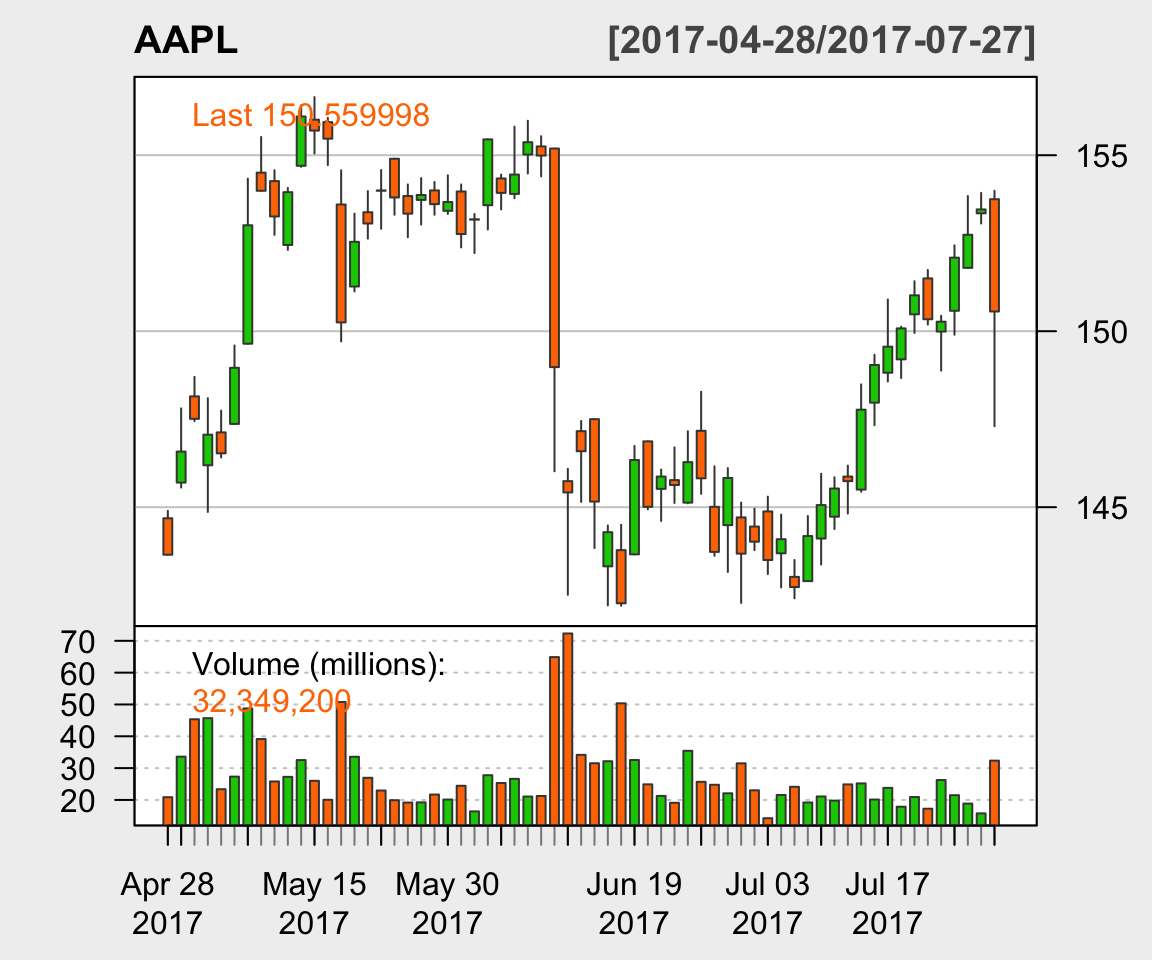
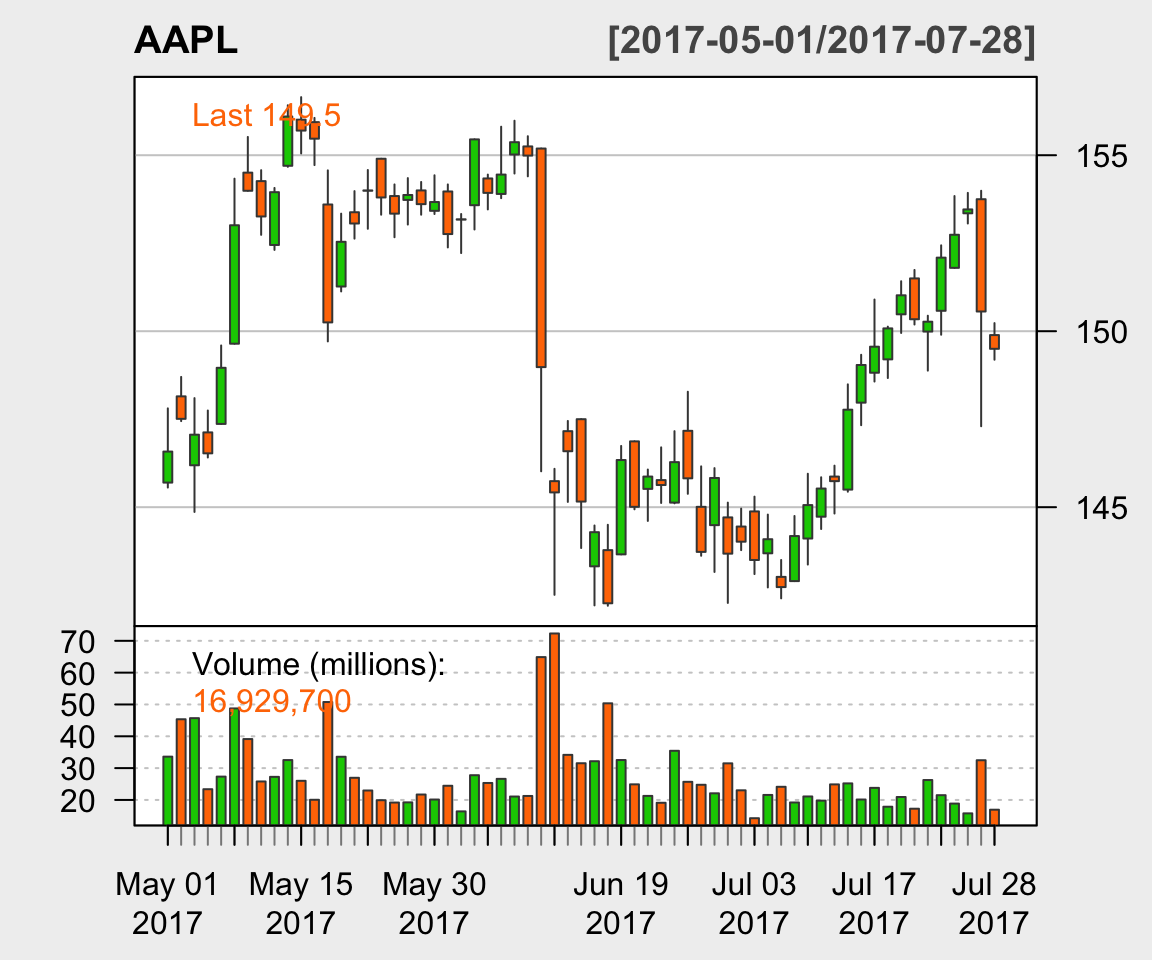
New build

diff --git a/_book/data.html b/_book/data.html
@@ -25,7 +25,7 @@
 <meta name="author" content="Matthew Beckman, Stéphane Guerrier, Justin Lee &amp; Roberto Molinari">
 
 
-<meta name="date" content="2017-07-28">
+<meta name="date" content="2017-07-29">
 
   <meta name="viewport" content="width=device-width, initial-scale=1">
   <meta name="apple-mobile-web-app-capable" content="yes">
@@ -527,10 +527,10 @@ Here we could add some remarks on weird cases, for example <code>grand_slam_win[
 <h3><span class="header-section-number">2.1.8</span> Example: Apple Stock Price</h3>
 <p>Suppose that one is interested in analysing the behavior of Apple’s stoch price over the last three months. The first thing that is need is today’s date which can be obtained as follows</p>
 <div class="sourceCode"><pre class="sourceCode r"><code class="sourceCode r">(<span class="dt">today =</span> <span class="kw">Sys.Date</span>())</code></pre></div>
-<pre><code>## [1] &quot;2017-07-28&quot;</code></pre>
+<pre><code>## [1] &quot;2017-07-29&quot;</code></pre>
 <p>Once this is done, we can obtain the date which is exactly three monmths ago</p>
 <div class="sourceCode"><pre class="sourceCode r"><code class="sourceCode r">(<span class="dt">three_months_ago =</span> <span class="kw">seq</span>(today, <span class="dt">length =</span> <span class="dv">2</span>, <span class="dt">by =</span> <span class="st">&quot;-3 months&quot;</span>)[<span class="dv">2</span>])</code></pre></div>
-<pre><code>## [1] &quot;2017-04-28&quot;</code></pre>
+<pre><code>## [1] &quot;2017-04-29&quot;</code></pre>
 <p>With this information, we can now download Apple’s stock price and represent these stocks through a candlestick chart which summarizes information on daily opening and closing prices as well as minimum and maximum prices.</p>
 <div class="sourceCode"><pre class="sourceCode r"><code class="sourceCode r"><span class="kw">library</span>(quantmod)
 <span class="kw">getSymbols</span>(<span class="st">&quot;AAPL&quot;</span>, <span class="dt">from =</span> three_months_ago, <span class="dt">to =</span> today)</code></pre></div>
@@ -545,9 +545,9 @@ Here we could add some remarks on weird cases, for example <code>grand_slam_win[
 <div class="sourceCode"><pre class="sourceCode r"><code class="sourceCode r">AAPL_returns =<span class="st"> </span><span class="kw">as.numeric</span>(<span class="kw">na.omit</span>(<span class="kw">ClCl</span>(AAPL)))</code></pre></div>
 <p>where <code>na.omit</code> is used to remove missing values in the stock prices vector since, if we have <span class="math inline">\(n+1\)</span> stock prices, we will only have <span class="math inline">\(n\)</span> returns and <code>as.numeric</code> is used to transform the computed returns into a numeric vector. We can now compute the mean and median of the returns over the considered period</p>
 <div class="sourceCode"><pre class="sourceCode r"><code class="sourceCode r"><span class="kw">mean</span>(AAPL_returns)</code></pre></div>
-<pre><code>## [1] 0.0008296052</code></pre>
+<pre><code>## [1] 0.0003870694</code></pre>
 <div class="sourceCode"><pre class="sourceCode r"><code class="sourceCode r"><span class="kw">median</span>(AAPL_returns)</code></pre></div>
-<pre><code>## [1] 0.002994722</code></pre>
+<pre><code>## [1] 0.002557922</code></pre>
 <p>However, a statistic that is of particular interest to financial operators is the Excess Kurtosis which, for a random variable that we denote as <span class="math inline">\(X\)</span>, can be defined as</p>
 <span class="math display">\[\begin{equation}
   \text{Kurt} = \frac{{E}\left[\left(X - E[X]\right)^4\right]}{\left({E}\left[\left(X - E[X]\right)^2\right]\right)^2} - 3
@@ -562,7 +562,7 @@ Here we could add some remarks on weird cases, for example <code>grand_slam_win[
 \end{equation}\]</span>
 <div class="sourceCode"><pre class="sourceCode r"><code class="sourceCode r">mu =<span class="st"> </span><span class="kw">mean</span>(AAPL_returns)
 (<span class="dt">k =</span> <span class="kw">mean</span>((AAPL_returns -<span class="st"> </span>mu)^<span class="dv">4</span>)/(<span class="kw">mean</span>((AAPL_returns -<span class="st"> </span>mu)^<span class="dv">2</span>))^<span class="dv">2</span> -<span class="st"> </span><span class="dv">3</span>)</code></pre></div>
-<pre><code>## [1] 1.854458</code></pre>
+<pre><code>## [1] 2.004566</code></pre>
 <p>which is quite high tends to indicate the returns have a heavier tails than the normal distribution.</p>
 </div>
 </div>
@@ -828,24 +828,24 @@ y =<span class="st"> </span><span class="kw">rnorm</span>(n, <span class="dv">3<
 <span class="co"># Sample mean</span>
 one =<span class="st"> </span><span class="kw">rep</span>(<span class="dv">1</span>, n)
 (<span class="dt">x_bar =</span> <span class="dv">1</span>/n*<span class="kw">sum</span>(x))</code></pre></div>
-<pre><code>## [1] -0.3156716</code></pre>
+<pre><code>## [1] -0.3777272</code></pre>
 <div class="sourceCode"><pre class="sourceCode r"><code class="sourceCode r">(<span class="dt">x_bar_mat =</span> <span class="dv">1</span>/n*<span class="kw">t</span>(x)%*%one)</code></pre></div>
 <pre><code>##            [,1]
-## [1,] -0.3156716</code></pre>
+## [1,] -0.3777272</code></pre>
 <div class="sourceCode"><pre class="sourceCode r"><code class="sourceCode r"><span class="co"># Sample variance</span>
 H =<span class="st"> </span><span class="kw">diag</span>(<span class="kw">rep</span>(<span class="dv">1</span>, n)) -<span class="st"> </span><span class="dv">1</span>/n *<span class="st"> </span>one %*%<span class="st"> </span><span class="kw">t</span>(one)
 (<span class="dt">s_x =</span> <span class="dv">1</span>/n *<span class="st"> </span><span class="kw">sum</span>((x -<span class="st"> </span>x_bar)^<span class="dv">2</span>))</code></pre></div>
-<pre><code>## [1] 4.277322</code></pre>
+<pre><code>## [1] 4.661235</code></pre>
 <div class="sourceCode"><pre class="sourceCode r"><code class="sourceCode r">(<span class="dt">s_x_mat =</span> <span class="dv">1</span>/n*<span class="kw">t</span>(x) %*%<span class="st"> </span>H %*%<span class="st"> </span>x)</code></pre></div>
 <pre><code>##          [,1]
-## [1,] 4.277322</code></pre>
+## [1,] 4.661235</code></pre>
 <div class="sourceCode"><pre class="sourceCode r"><code class="sourceCode r"><span class="co"># Sample covariance</span>
 y_bar =<span class="st"> </span><span class="dv">1</span>/n*<span class="kw">sum</span>(y)
 (<span class="dt">s_xy =</span> <span class="dv">1</span>/n*<span class="kw">sum</span>((x -<span class="st"> </span>x_bar)*(y -<span class="st"> </span>y_bar)))</code></pre></div>
-<pre><code>## [1] -0.01609829</code></pre>
+<pre><code>## [1] -0.1118769</code></pre>
 <div class="sourceCode"><pre class="sourceCode r"><code class="sourceCode r">(<span class="dt">s_xy_mat =</span> <span class="dv">1</span>/n*<span class="kw">t</span>(x) %*%<span class="st"> </span>H %*%<span class="st"> </span>y)</code></pre></div>
-<pre><code>##             [,1]
-## [1,] -0.01609829</code></pre>
+<pre><code>##            [,1]
+## [1,] -0.1118769</code></pre>
 </div>
 <div id="example-least-squares" class="section level3">
 <h3><span class="header-section-number">2.2.4</span> Example: Least-squares</h3>

diff --git a/_book/index.html b/_book/index.html
@@ -25,7 +25,7 @@
 <meta name="author" content="Matthew Beckman, Stéphane Guerrier, Justin Lee &amp; Roberto Molinari">
 
 
-<meta name="date" content="2017-07-28">
+<meta name="date" content="2017-07-29">
 
   <meta name="viewport" content="width=device-width, initial-scale=1">
   <meta name="apple-mobile-web-app-capable" content="yes">
@@ -194,7 +194,7 @@ code > span.in { color: #60a0b0; font-weight: bold; font-style: italic; } /* Inf
 <div id="header">
 <h1 class="title">Let’s find a good title</h1>
 <h4 class="author"><em>Matthew Beckman, Stéphane Guerrier, Justin Lee &amp; Roberto Molinari</em></h4>
-<h4 class="date"><em>2017-07-28</em></h4>
+<h4 class="date"><em>2017-07-29</em></h4>
 </div>
 <div id="introduction" class="section level1">
 <h1><span class="header-section-number">Chapter 1</span> Introduction</h1>

diff --git a/_book/build-a-package.html b/_book/build-a-package.html
@@ -25,7 +25,7 @@
 <meta name="author" content="Matthew Beckman, Stéphane Guerrier, Justin Lee &amp; Roberto Molinari">
 
 
-<meta name="date" content="2017-07-28">
+<meta name="date" content="2017-07-29">
 
   <meta name="viewport" content="width=device-width, initial-scale=1">
   <meta name="apple-mobile-web-app-capable" content="yes">

diff --git a/_book/case-study-monte-carlo-integration.html b/_book/case-study-monte-carlo-integration.html
@@ -25,7 +25,7 @@
 <meta name="author" content="Matthew Beckman, Stéphane Guerrier, Justin Lee &amp; Roberto Molinari">
 
 
-<meta name="date" content="2017-07-28">
+<meta name="date" content="2017-07-29">
 
   <meta name="viewport" content="width=device-width, initial-scale=1">
   <meta name="apple-mobile-web-app-capable" content="yes">

diff --git a/_book/chap-graphs.html b/_book/chap-graphs.html
@@ -25,7 +25,7 @@
 <meta name="author" content="Matthew Beckman, Stéphane Guerrier, Justin Lee &amp; Roberto Molinari">
 
 
-<meta name="date" content="2017-07-28">
+<meta name="date" content="2017-07-29">
 
   <meta name="viewport" content="width=device-width, initial-scale=1">
   <meta name="apple-mobile-web-app-capable" content="yes">

diff --git a/_book/control.html b/_book/control.html
@@ -25,7 +25,7 @@
 <meta name="author" content="Matthew Beckman, Stéphane Guerrier, Justin Lee &amp; Roberto Molinari">
 
 
-<meta name="date" content="2017-07-28">
+<meta name="date" content="2017-07-29">
 
   <meta name="viewport" content="width=device-width, initial-scale=1">
   <meta name="apple-mobile-web-app-capable" content="yes">

diff --git a/_book/functions.html b/_book/functions.html
@@ -25,7 +25,7 @@
 <meta name="author" content="Matthew Beckman, Stéphane Guerrier, Justin Lee &amp; Roberto Molinari">
 
 
-<meta name="date" content="2017-07-28">
+<meta name="date" content="2017-07-29">
 
   <meta name="viewport" content="width=device-width, initial-scale=1">
   <meta name="apple-mobile-web-app-capable" content="yes">

diff --git a/_book/github.html b/_book/github.html
@@ -25,7 +25,7 @@
 <meta name="author" content="Matthew Beckman, Stéphane Guerrier, Justin Lee &amp; Roberto Molinari">
 
 
-<meta name="date" content="2017-07-28">
+<meta name="date" content="2017-07-29">
 
   <meta name="viewport" content="width=device-width, initial-scale=1">
   <meta name="apple-mobile-web-app-capable" content="yes">

diff --git a/_book/r-markdown.html b/_book/r-markdown.html
@@ -25,7 +25,7 @@
 <meta name="author" content="Matthew Beckman, Stéphane Guerrier, Justin Lee &amp; Roberto Molinari">
 
 
-<meta name="date" content="2017-07-28">
+<meta name="date" content="2017-07-29">
 
   <meta name="viewport" content="width=device-width, initial-scale=1">
   <meta name="apple-mobile-web-app-capable" content="yes">
